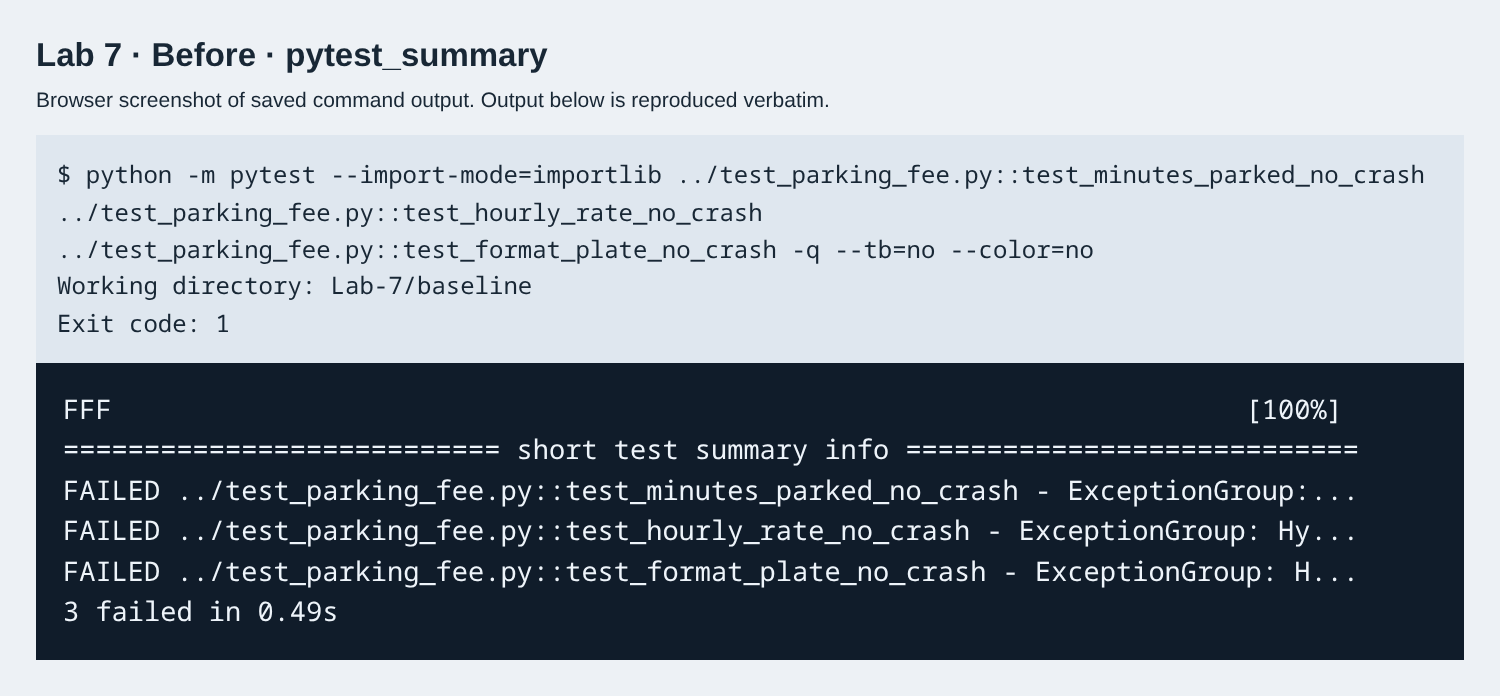
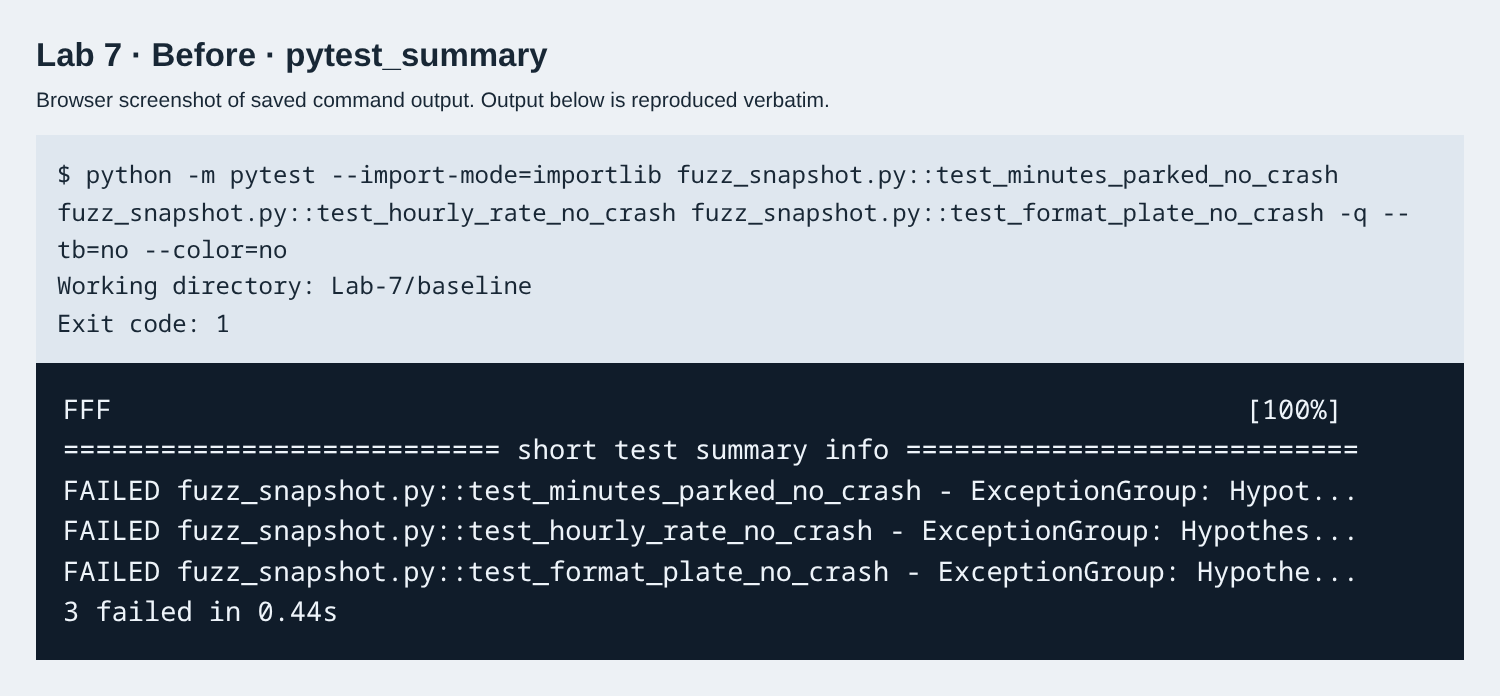
Replay the preserved starter fuzz tests for reproducible baseline failures

diff --git a/Lab-7/tools/capture_evidence.py b/Lab-7/tools/capture_evidence.py
@@ -18,12 +18,12 @@ BASIC_TESTS = [
 ]
 
 
-def capture(phase):
+def _capture(phase):
     """Replay the original or final application and record command metadata."""
     output_dir = ROOT / "reports" / phase
     output_dir.mkdir(parents=True, exist_ok=True)
     cwd = ROOT / "baseline" if phase == "before" else ROOT
-    test_file = "../test_parking_fee.py" if phase == "before" else "test_parking_fee.py"
+    test_file = "fuzz_snapshot.py" if phase == "before" else "test_parking_fee.py"
     tests = [f"{test_file}::{name}" for name in BASIC_TESTS]
     cases = [
         ("application_valid", ["-u", "parking_fee.py"],
@@ -73,7 +73,7 @@ def capture(phase):
             (cwd / "parking_fee.py").read_bytes()
         ).hexdigest(),
         "tests_sha256": hashlib.sha256(
-            (ROOT / "test_parking_fee.py").read_bytes()
+            (cwd / test_file).read_bytes()
         ).hexdigest(),
         "commands": records,
     }
@@ -84,6 +84,20 @@ def capture(phase):
     (output_dir / "manifest.json").write_text(
         json.dumps(metadata, indent=2) + "\n", encoding="utf-8",
     )
+
+
+def capture(phase):
+    """Replay the exact preserved starter properties when collecting failures."""
+    if phase == "after":
+        return _capture(phase)
+    snapshot = ROOT / "baseline/fuzz_snapshot.py"
+    if snapshot.exists():
+        raise SystemExit(f"Refusing to overwrite an existing file: {snapshot}")
+    try:
+        snapshot.write_bytes((ROOT / "baseline/fuzz_tests.py.txt").read_bytes())
+        return _capture(phase)
+    finally:
+        snapshot.unlink(missing_ok=True)
 
 
 if __name__ == "__main__":
